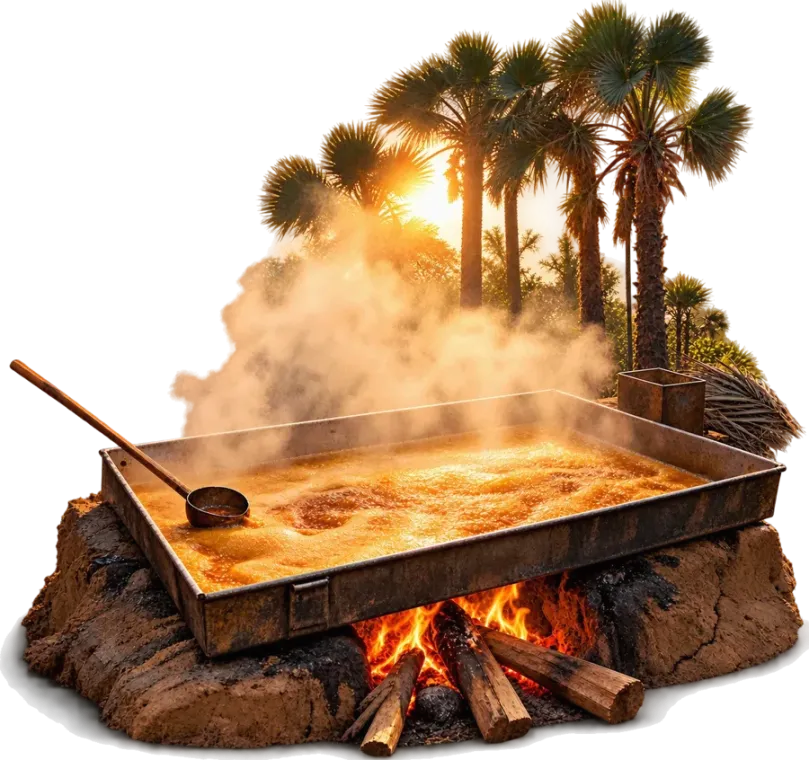
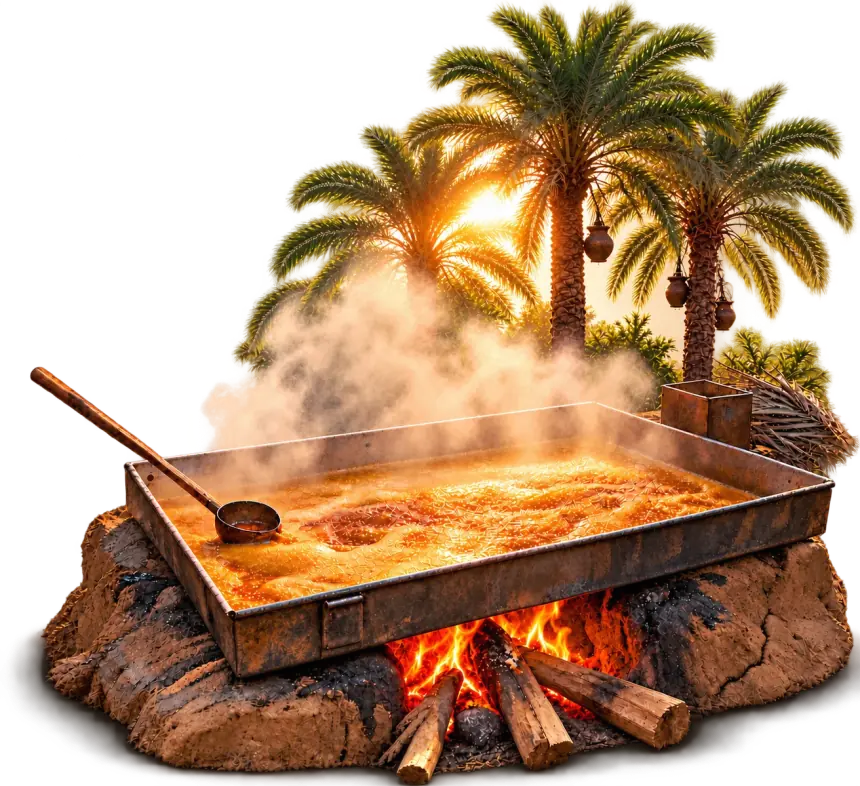
feat: sticker ticks, line totals and all-gur default in the খেজুরের গুড় memo (#106)
- Preselect every gur at one each, including ones that load late; a gur the
  shopper unticks is never re-added.
- Replace the round radio with a red scalloped sticker tick.
- Show unit price, struck compare price and discount badge right under the
  product name, with the quantity-based line total on the right.
- Auto-advance the memo gallery every 3s, paused on touch, hover or focus and
  off for reduced motion.
- Swap the "জ্বাল দেওয়া" step image for the new boiling-hearth artwork.

diff --git a/client/src/features/khejurer-gur/landing.css b/client/src/features/khejurer-gur/landing.css
@@ -350,27 +350,37 @@
 .sp .amsotto .v1-memo-pick span{padding:0 6px; border-radius:4px; background:linear-gradient(transparent 12%,#ffe066 12%,#ffe066 88%,transparent 88%);}
 .sp .amsotto .v1-memo-packs{position:relative; border-radius:10px; background:#fff; overflow:hidden;}
 .sp .amsotto .v1-memo-packs::after{content:""; position:absolute; inset:0; z-index:2; border-radius:inherit; box-shadow:inset 0 0 0 1px var(--line); pointer-events:none;}
-.sp .amsotto .v1-memo-pack{position:relative; display:grid; grid-template-columns:1fr auto; align-items:center; gap:10px; min-height:72px; padding:12px 14px; transition:background-color 220ms ease;}
+.sp .amsotto .v1-memo-pack{position:relative; display:grid; grid-template-columns:30px 1fr auto; align-items:start; column-gap:10px; row-gap:4px; padding:12px 14px; transition:background-color 220ms ease;}
 .sp .amsotto .v1-memo-pack + .v1-memo-pack{border-top:1px solid var(--line);}
 .sp .amsotto .v1-memo-pack[data-checked="true"]{background:#fdf3dd;}
-.sp .amsotto .v1-memo-pack label{display:grid; grid-template-columns:22px 1fr; align-items:center; gap:12px; cursor:pointer;}
+.sp .amsotto .v1-memo-pack label{grid-column:1 / 3; display:grid; grid-template-columns:30px 1fr; align-items:start; gap:10px; cursor:pointer;}
 .sp .amsotto .v1-memo-pack label::after{content:""; position:absolute; inset:0;}
 .sp .amsotto .v1-memo-pack:has(:focus-visible){outline:2px solid var(--royal); outline-offset:-2px;}
-.sp .amsotto .v1-memo-pack .dot{display:grid; place-items:center; width:22px; height:22px; border-radius:50%; box-shadow:inset 0 0 0 1.5px #5b2d1766; transition:background-color 200ms ease,box-shadow 200ms ease;}
-.sp .amsotto .v1-memo-pack .dot::after{content:""; width:8px; height:8px; border-radius:50%; background:#fff; transform:scale(0); transition:transform 220ms var(--ease-out);}
-.sp .amsotto .v1-memo-pack[data-checked="true"] .dot{background:var(--royal); box-shadow:none;}
-.sp .amsotto .v1-memo-pack[data-checked="true"] .dot::after{transform:scale(1);}
-.sp .amsotto .v1-memo-pack .lbl{font-family:var(--display); font-size:17px; font-weight:800; line-height:1.4; color:var(--ink);}
-.sp .amsotto .v1-memo-pack .lbl .off{position:relative; display:inline-block; margin-left:8px; padding:3px 12px; border-radius:999px; background:var(--chili); color:#fff; font-family:var(--body); font-size:14px; font-weight:800; font-style:normal; line-height:1.5; vertical-align:middle;}
+/* Tick: a scalloped sale sticker, white die-cut edge, slapped on slightly askew. */
+.sp .amsotto .v1-memo-pack .stk{width:30px; height:30px; overflow:visible; transform:rotate(-6deg); stroke-linejoin:round;}
+.sp .amsotto .v1-memo-pack .stk-ring{fill:none; stroke:#5b2d1766; stroke-width:1.5; stroke-dasharray:3 2.4; transition:opacity 160ms ease;}
+.sp .amsotto .v1-memo-pack .stk-edge{fill:#fff; stroke:#fff; stroke-width:5;}
+.sp .amsotto .v1-memo-pack .stk-fill{fill:var(--chili); stroke:var(--chili); stroke-width:1.5;}
+.sp .amsotto .v1-memo-pack .stk-check{fill:none; stroke:#fff; stroke-width:3; stroke-linecap:round;}
+.sp .amsotto .v1-memo-pack .stk-edge, .sp .amsotto .v1-memo-pack .stk-fill, .sp .amsotto .v1-memo-pack .stk-check{transform-origin:16px 16px; transform:scale(.4); opacity:0; transition:transform 260ms var(--ease-out),opacity 160ms ease;}
+.sp .amsotto .v1-memo-pack[data-checked="true"] .stk{filter:drop-shadow(0 1.5px 1.5px #3f1a0b40);}
+.sp .amsotto .v1-memo-pack[data-checked="true"] .stk-ring{opacity:0;}
+.sp .amsotto .v1-memo-pack[data-checked="true"] :is(.stk-edge,.stk-fill,.stk-check){transform:none; opacity:1;}
+@media (prefers-reduced-motion: reduce){.sp .amsotto .v1-memo-pack :is(.stk-ring,.stk-edge,.stk-fill,.stk-check){transition:none;}}
+.sp .amsotto .v1-memo-pack .lbl{padding-top:2px; font-family:var(--display); font-size:17px; font-weight:800; line-height:1.35; color:var(--ink);}
+.sp .amsotto .v1-memo-pack .tot{padding-top:1px; font-family:var(--display); font-size:21px; font-weight:900; line-height:1.3; font-variant-numeric:tabular-nums; text-align:right; color:#b9a598; transition:color 200ms ease;}
+.sp .amsotto .v1-memo-pack[data-checked="true"] .tot{color:var(--chili);}
+.sp .amsotto .v1-memo-pack .prow{grid-column:2 / 4; display:flex; flex-wrap:wrap; align-items:center; gap:8px;}
+.sp .amsotto .v1-memo-pack .pr{font-family:var(--display); font-size:16px; font-weight:800; line-height:1.2; font-variant-numeric:tabular-nums; color:var(--ink);}
+.sp .amsotto .v1-memo-pack .prow s{font-family:var(--display); font-size:13px; font-weight:700; color:var(--sub); text-decoration:none; padding:0 2px; background:linear-gradient(to bottom right,transparent calc(50% - 1px),var(--chili) calc(50% - 1px),var(--chili) calc(50% + 1px),transparent calc(50% + 1px));}
+.sp .amsotto .v1-memo-pack .off{position:relative; display:inline-block; padding:1px 10px; border-radius:999px; background:var(--chili); color:#fff; font-family:var(--body); font-size:13px; font-weight:800; font-style:normal; line-height:1.5;}
 @property --amsotto-beam{ syntax:"<angle>"; initial-value:0deg; inherits:false; }
 @keyframes amsotto-beam{ to { --amsotto-beam:360deg; } }
-.sp .amsotto .v1-memo-pack .lbl .off::after{content:""; position:absolute; inset:0; padding:1px; border-radius:inherit; background:conic-gradient(from var(--amsotto-beam),transparent 0 80%,rgba(255,255,255,.85) 100%); -webkit-mask:linear-gradient(#000 0 0) content-box,linear-gradient(#000 0 0); -webkit-mask-composite:xor; mask:linear-gradient(#000 0 0) content-box exclude,linear-gradient(#000 0 0); pointer-events:none; animation:amsotto-beam 3s linear infinite;}
-@media (prefers-reduced-motion: reduce){.sp .amsotto .v1-memo-pack .lbl .off::after{animation:none;}}
-.sp .amsotto .v1-memo-pack .lbl small{display:block; font-family:var(--body); font-size:11px; font-weight:400; color:var(--muted);}
-.sp .amsotto .v1-memo-pack .end{position:relative; z-index:1; display:grid; justify-items:end; gap:6px; pointer-events:none;}
-.sp .amsotto .v1-memo-pack .pr{font-family:var(--display); font-size:21px; font-weight:900; line-height:1.2; font-variant-numeric:tabular-nums; color:var(--ink); transition:color 200ms ease;}
-.sp .amsotto .v1-memo-pack[data-checked="true"] .pr{color:var(--chili);}
-.sp .amsotto .v1-memo-pack .pr s{display:inline-block; margin-left:8px; font-size:16px; font-weight:700; color:var(--sub); text-decoration:none; padding:0 2px; background:linear-gradient(to bottom right,transparent calc(50% - 1px),var(--chili) calc(50% - 1px),var(--chili) calc(50% + 1px),transparent calc(50% + 1px));}
+.sp .amsotto .v1-memo-pack .off::after{content:""; position:absolute; inset:0; padding:1px; border-radius:inherit; background:conic-gradient(from var(--amsotto-beam),transparent 0 80%,rgba(255,255,255,.85) 100%); -webkit-mask:linear-gradient(#000 0 0) content-box,linear-gradient(#000 0 0); -webkit-mask-composite:xor; mask:linear-gradient(#000 0 0) content-box exclude,linear-gradient(#000 0 0); pointer-events:none; animation:amsotto-beam 3s linear infinite;}
+@media (prefers-reduced-motion: reduce){.sp .amsotto .v1-memo-pack .off::after{animation:none;}}
+.sp .amsotto .v1-memo-pack .foot{grid-column:2 / 4; position:relative; z-index:1; display:flex; align-items:center; justify-content:space-between; gap:8px; min-height:36px; pointer-events:none;}
+.sp .amsotto .v1-memo-pack .foot small{font-family:var(--body); font-size:11px; font-weight:400; color:var(--muted);}
+.sp .amsotto .v1-memo-pack .add{padding:5px 14px; border-radius:999px; box-shadow:inset 0 0 0 1.5px var(--royal); font-family:var(--body); font-size:13px; font-weight:700; color:var(--royal);}
 .sp .amsotto .v1-memo-pack .skx-qty{pointer-events:auto; border:0; background:#fff; box-shadow:0 1px 2px #3f1a0b14,0 4px 10px -6px #3f1a0b55; animation:amsotto-qty-in 260ms var(--ease-out);}
 .sp .amsotto .v1-memo-pack .skx-qty button{min-width:36px; min-height:36px; font-size:18px; color:var(--royal);}
 .sp .amsotto .v1-memo-pack .skx-qty output{min-width:22px; font-family:var(--display); font-size:15px; font-weight:700; color:var(--ink);}

diff --git a/client/src/features/khejurer-gur/khejur-checkout.tsx b/client/src/features/khejurer-gur/khejur-checkout.tsx
@@ -57,11 +57,17 @@ function validate(selectionUnits: number, name: string, phone: string, address: 
 const designFor = (slug: string) => KHEJUR_PRODUCTS.find((product) => product.slug === slug);
 const analyticsItem = (line: KhejurLine, quantity: number) => toGoogleAnalyticsItem({ id: line.variantId, name: line.productName, variant: line.label, price: line.unitPrice, quantity });
 
+// The memo's tick: a 10-point scalloped "sale" sticker.
+const STICKER_POINTS = Array.from({ length: 20 }, (_, i) => {
+  const angle = (Math.PI * i) / 10 - Math.PI / 2;
+  const radius = i % 2 ? 11.2 : 14;
+  return `${(16 + radius * Math.cos(angle)).toFixed(2)},${(16 + radius * Math.sin(angle)).toFixed(2)}`;
+}).join(" ");
 
-export function KhejurCheckout({ products, status, catalogSettled, refresh, addRequest }: {
+
+export function KhejurCheckout({ products, status, refresh, addRequest }: {
   products: (StorefrontProduct | null)[];
   status: Status;
-  catalogSettled: boolean;
   refresh: () => Promise<(StorefrontProduct | null)[]>;
   addRequest: { slug: string; at: number } | null;
 }) {
@@ -83,18 +89,33 @@ export function KhejurCheckout({ products, status, catalogSettled, refresh, addR
   const submittingRef = useRef(false);
   const beganCheckoutRef = useRef(false);
   const viewedRef = useRef(false);
-  const preselectedRef = useRef(false);
+  const preselectedRef = useRef(new Set<string>());
   const railRef = useRef<HTMLDivElement>(null);
+  const galleryPausedRef = useRef(false);
   const totals = useMemo(() => calculateKhejurTotals(lines, selection), [lines, selection]);
   const eta = useMemo(() => deliveryWindowLabel(), []);
 
-  // Start with the first gur selected, like the paper memo did — once every product has loaded,
-  // so whichever request finishes first doesn't decide the default.
+  // Advance the memo gallery every 3s, looping. Keyed on activeSlide so a manual swipe restarts
+  // the wait; held while the shopper touches, hovers or focuses it, and off for reduced motion.
   useEffect(() => {
-    if (preselectedRef.current || !catalogSettled || !lines.length) return;
-    preselectedRef.current = true;
-    setSelection({ [lines[0].variantId]: 1 });
-  }, [lines, catalogSettled]);
+    if (window.matchMedia("(prefers-reduced-motion: reduce)").matches) return;
+    const timer = window.setInterval(() => {
+      const rail = railRef.current;
+      if (!rail || galleryPausedRef.current) return;
+      const next = (activeSlide + 1) % KHEJUR_PRODUCTS.length;
+      rail.scrollTo({ left: next * rail.clientWidth, behavior: "smooth" });
+    }, 3000);
+    return () => window.clearInterval(timer);
+  }, [activeSlide]);
+
+  // Every gur starts selected at one each, including ones that load late. A gur the shopper
+  // has unticked is never re-added, because each one is only preselected the first time it appears.
+  useEffect(() => {
+    const fresh = lines.filter((line) => !preselectedRef.current.has(line.variantId));
+    if (!fresh.length) return;
+    fresh.forEach((line) => preselectedRef.current.add(line.variantId));
+    setSelection((current) => ({ ...Object.fromEntries(fresh.map((line) => [line.variantId, 1])), ...current }));
+  }, [lines]);
 
   useEffect(() => {
     if (viewedRef.current || status !== "ready" || !lines.length) return;
@@ -228,7 +249,9 @@ export function KhejurCheckout({ products, status, catalogSettled, refresh, addR
         <article className="skx-paper">
           <div className="skx-paper-head"><img className="km-mango" src={KHEJUR_ASSET("mango-mark.webp")} alt="" width={240} height={171} /><div><h2 id="km-heading" tabIndex={-1}>অর্ডার মেমো</h2><p>ম্যাংগো লাভার · রাজশাহী</p></div><span className="skx-serial" aria-hidden="true">খাতা নং<br /><b>০১</b></span></div>
           <div className="skx-order">
-            <div className="v1-gal">
+            <div className="v1-gal"
+              onPointerEnter={() => { galleryPausedRef.current = true; }} onPointerLeave={() => { galleryPausedRef.current = false; }}
+              onFocusCapture={() => { galleryPausedRef.current = true; }} onBlurCapture={() => { galleryPausedRef.current = false; }}>
               <div className="v1-gal-rail" ref={railRef} role="region" aria-label="খেজুরের গুড়ের ছবি" tabIndex={0}
                 onScroll={(event) => { const rail = event.currentTarget; setActiveSlide(Math.round(rail.scrollLeft / Math.max(rail.clientWidth, 1))); }}>
                 {slides.map((slide) => <div key={slide.slug} className="v1-gal-slide"><img src={KHEJUR_ASSET(slide.sunImage)} alt={slide.short} width={900} height={900} draggable={false} /></div>)}
@@ -249,18 +272,29 @@ export function KhejurCheckout({ products, status, catalogSettled, refresh, addR
                   <div key={line.variantId} className="v1-memo-pack" data-checked={quantity > 0}>
                     <label>
                       <input className="sr-only" type="checkbox" checked={quantity > 0} onChange={(event) => setQuantity(line, event.target.checked ? 1 : 0)} />
-                      <span className="dot" aria-hidden="true" />
-                      <span className="lbl"><b>{displayProductName(line.productName)}</b> · {line.label}{percentOff > 0 ? <em className="off">{toBanglaDigits(percentOff)}% ছাড়</em> : null}<small>{design?.uses.join(" · ")}</small></span>
+                      <svg className="stk" viewBox="0 0 32 32" aria-hidden="true">
+                        <polygon className="stk-ring" points={STICKER_POINTS} />
+                        <polygon className="stk-edge" points={STICKER_POINTS} />
+                        <polygon className="stk-fill" points={STICKER_POINTS} />
+                        <path className="stk-check" d="M10.5 16.5l3.6 3.6 7.6-8.2" />
+                      </svg>
+                      <span className="lbl"><b>{displayProductName(line.productName)}</b> · {line.label}</span>
                     </label>
-                    <div className="end">
-                      <span className="pr">{formatTaka(line.unitPrice)}{line.comparePrice ? <s>{formatTaka(line.comparePrice)}</s> : null}</span>
+                    <span className="tot">{quantity ? formatTaka(line.unitPrice * quantity) : "—"}</span>
+                    <span className="prow">
+                      <span className="pr">{formatTaka(line.unitPrice)}</span>
+                      {line.comparePrice ? <s>{formatTaka(line.comparePrice)}</s> : null}
+                      {percentOff > 0 ? <em className="off">{toBanglaDigits(percentOff)}% ছাড়</em> : null}
+                    </span>
+                    <div className="foot">
+                      <small>{design?.uses.join(" · ")}</small>
                       {quantity ? (
                         <div className="skx-qty" role="group" aria-label={`${displayProductName(line.productName)} পরিমাণ`}>
                           <button type="button" aria-label="কমান" onClick={() => setQuantity(line, quantity - 1)}>−</button>
                           <output>{toBanglaDigits(quantity)}</output>
                           <button type="button" aria-label="বাড়ান" disabled={quantity >= MAX_LINE_QUANTITY} onClick={() => setQuantity(line, quantity + 1)}>+</button>
                         </div>
-                      ) : null}
+                      ) : <span className="add" aria-hidden="true">যোগ করুন</span>}
                     </div>
                   </div>
                 );

diff --git a/client/src/pages/khejurer-gur.tsx b/client/src/pages/khejurer-gur.tsx
@@ -197,7 +197,7 @@ export default function KhejurerGurPage() {
 
         <div className="amsotto am-k in">
           <section className="v1-order" id="orderK" aria-labelledby="km-heading" ref={orderRef}>
-            <KhejurCheckout products={stableProducts} status={status} catalogSettled={catalogSettled} refresh={refresh} addRequest={addRequest} />
+            <KhejurCheckout products={stableProducts} status={status} refresh={refresh} addRequest={addRequest} />
           </section>
         </div>
       </main>
